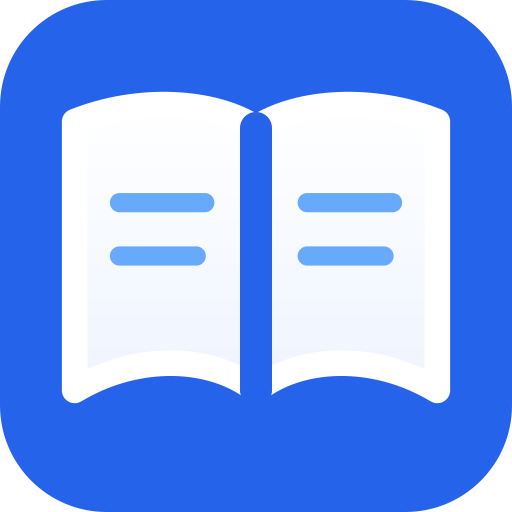
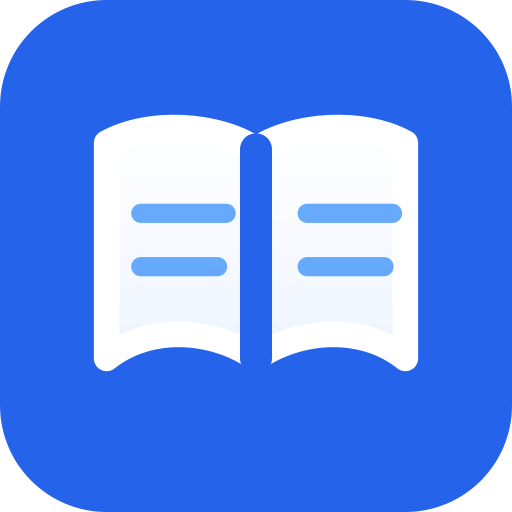
(#15) fix(brand): thu nhỏ sách, lề an toàn trong khung bo tròn
- Cuốn Kinh Thánh mở có lề an toàn, không dàn sát mép khung vuông bo
  tròn (dành cho icon PWA / favicon)
- Áp dụng đồng bộ logo header và favicon (icon.svg, apple-icon.svg)
- Sinh lại PNG 192/512 từ icon.svg mới

diff --git a/src/components/layout/logo.tsx b/src/components/layout/logo.tsx
@@ -12,29 +12,29 @@ export function Logo({ className }: { className?: string }) {
           <stop offset="1" stopColor="#eef4ff" />
         </linearGradient>
       </defs>
-      {/* trang trái & phải: tỉ lệ mở tự nhiên (rộng > cao), viền trắng */}
+      {/* trang trái & phải: lề an toàn, không sát mép khung */}
       <path
-        d="M12 6 C 10 4.7 6.5 4.5 3.5 5.7 L 3.5 18.3 C 6.5 16.5 10 16.7 12 18.3 Z"
+        d="M12 7 C 10.2 5.8 7 5.6 5 6.7 L 5 16.8 C 7 15.2 10 15.4 12 16.8 Z"
         fill="url(#slxPage)"
         stroke="#ffffff"
         strokeWidth="1.3"
         strokeLinejoin="round"
       />
       <path
-        d="M12 6 C 14 4.7 17.5 4.5 20.5 5.7 L 20.5 18.3 C 17.5 16.5 14 16.7 12 18.3 Z"
+        d="M12 7 C 13.8 5.8 17 5.6 19 6.7 L 19 16.8 C 17 15.2 14 15.4 12 16.8 Z"
         fill="url(#slxPage)"
         stroke="#ffffff"
         strokeWidth="1.3"
         strokeLinejoin="round"
       />
       {/* gáy giữa (xanh) */}
-      <path d="M12 6 L 12 18.3" stroke="#2563eb" strokeWidth="1.5" strokeLinecap="round" />
+      <path d="M12 7 L 12 16.8" stroke="#2563eb" strokeWidth="1.5" strokeLinecap="round" />
       {/* dòng chữ trang */}
       <g stroke="#60a5fa" strokeWidth="0.9" strokeLinecap="round" opacity="0.95">
-        <path d="M5.6 9.5 h4" />
-        <path d="M5.6 12 h3.6" />
-        <path d="M14.4 9.5 h4" />
-        <path d="M14.4 12 h3.6" />
+        <path d="M6.6 10 h4" />
+        <path d="M6.6 12.5 h3.6" />
+        <path d="M14.4 10 h4" />
+        <path d="M14.4 12.5 h3.6" />
       </g>
     </svg>
   )
